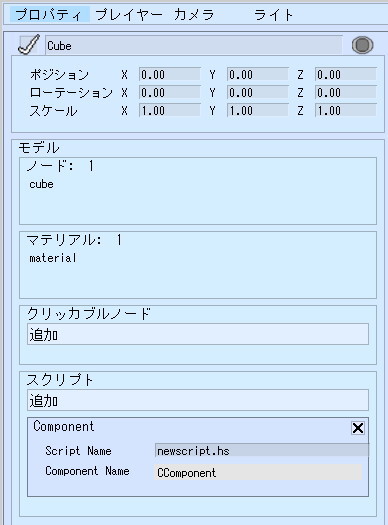
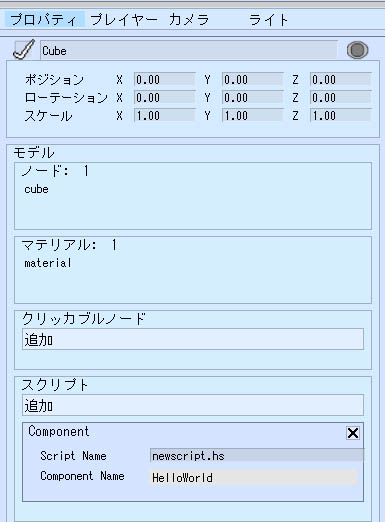
文言と、画像のコンポーネント名アHelloWorldになってなかったので調整

Changed region(s): [[0.0, 0.0, 1.0, 1.0]]

diff --git a/docs/hs/hs_overview.ja.md b/docs/hs/hs_overview.ja.md
@@ -3,7 +3,7 @@
 Vket Cloudでは、HeliScriptというエンジン独自のスクリプトを使用してプログラミングを行うことができます。  
 HeliScriptを使用すると、[アクション](../Actions/ActionsOverview.md)と比べてより複雑なギミック・挙動を実装できます。
 
-HeliScriptの文法については[基本系](./hs_var.md))から順番に読むことで習得できます。  
+HeliScriptの文法については[基本系](./hs_var.md)から順番に読むことで習得できます。   
 また、ここでは以下にてHello Worldを出力する方法を通じて、基本的な実装の例を示します。
 
 ## HeliScriptの使い方の例 (Hello Worldをコンソールに出力する)
@@ -14,8 +14,6 @@ HeliScriptの文法については[基本系](./hs_var.md))から順番に読む
 
 初めに、HeliScriptを書き込むファイルを作ります。  
 アセットメニューからスクリプトを作成を選択することで、アセットパネルのScriptにnewscriptという.hsファイルが追加されます。
-
-例として、ここではAssetsフォルダにScriptsフォルダを追加し、HelloWorld.hsという名前でHeliScriptファイルを新規生成しています。
 
 ![hs_overview_2](img/hs_overview_2.jpg)
 

diff --git a/docs/hs/hs_overview.en.md b/docs/hs/hs_overview.en.md
@@ -3,7 +3,7 @@
 Vket Cloudでは、HeliScriptというエンジン独自のスクリプトを使用してプログラミングを行うことができます。  
 HeliScriptを使用すると、[アクション](../Actions/ActionsOverview.md)と比べてより複雑なギミック・挙動を実装できます。
 
-HeliScriptの文法については[基本系](./hs_var.md))から順番に読むことで習得できます。  
+HeliScriptの文法については[基本系](./hs_var.md)から順番に読むことで習得できます。  
 また、ここでは以下にてHello Worldを出力する方法を通じて、基本的な実装の例を示します。
 
 ## HeliScriptの使い方の例 (Hello Worldをコンソールに出力する)
@@ -14,8 +14,6 @@ HeliScriptの文法については[基本系](./hs_var.md))から順番に読む
 
 初めに、HeliScriptを書き込むファイルを作ります。  
 アセットメニューからスクリプトを作成を選択することで、アセットパネルのScriptにnewscriptという.hsファイルが追加されます。
-
-例として、ここではAssetsフォルダにScriptsフォルダを追加し、HelloWorld.hsという名前でHeliScriptファイルを新規生成しています。
 
 ![hs_overview_2](img/hs_overview_2.jpg)
 
